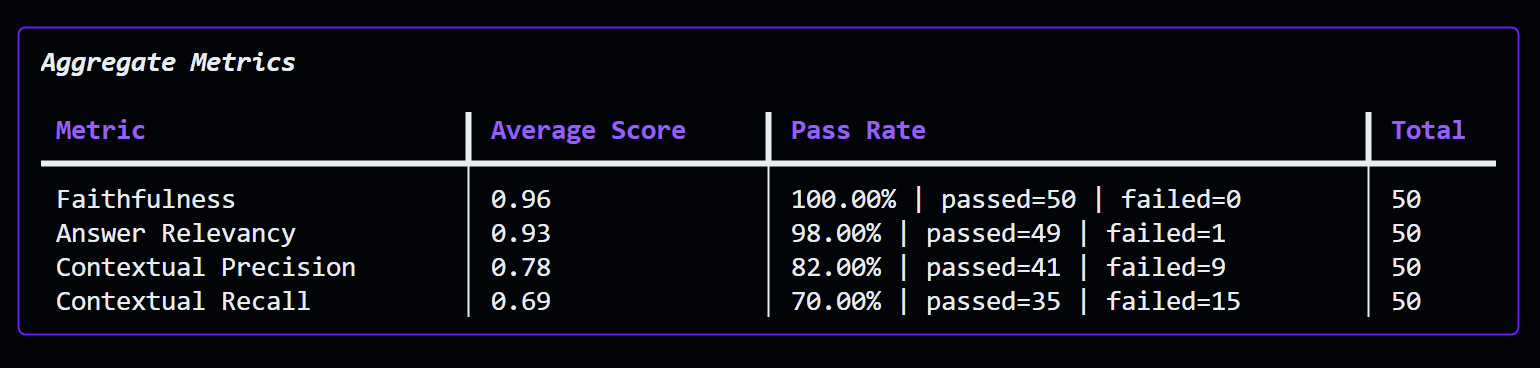
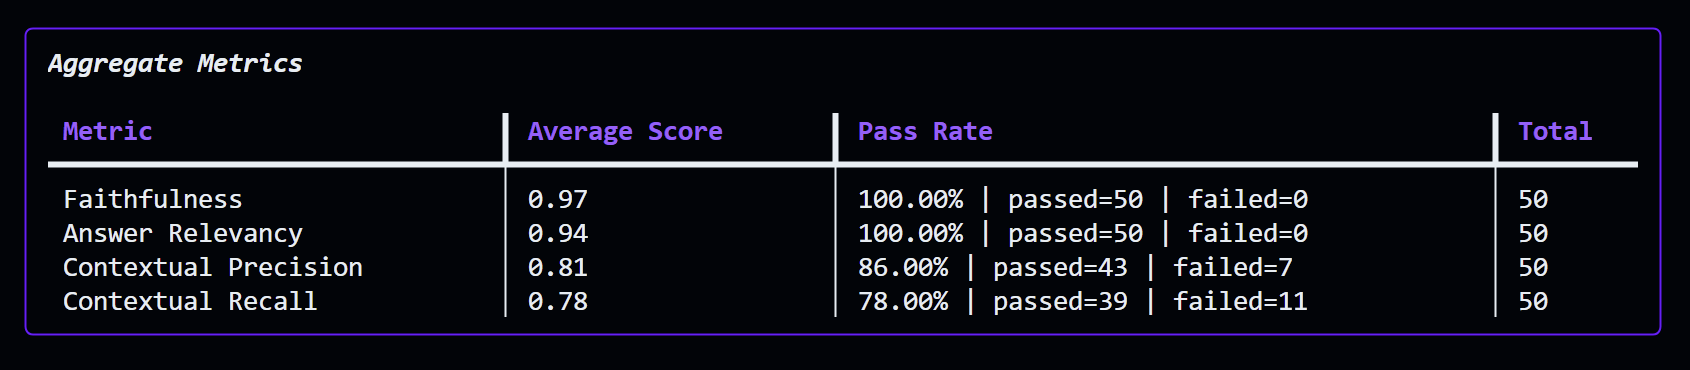
Re-eval Dense

diff --git a/src/retriever.py b/src/retriever.py
@@ -1,34 +1,37 @@
 """
-Qdrant client, Hybrid Vector Store (Dense + BM25 Sparse) & RBAC filter helpers.
-Stage 2: Hybrid Retrieval — Dense (BAAI/bge-small-en-v1.5) + Sparse (Qdrant/bm25).
+Qdrant client, vector store, and RBAC filter helpers.
+Stage 1: Dense Vector Retrieval (BAAI/bge-small-en-v1.5).
 """
 from __future__ import annotations
 import atexit
 import warnings
 
-from langchain_community.embeddings import FastEmbedEmbeddings
-from langchain_qdrant import FastEmbedSparse, QdrantVectorStore, RetrievalMode
+from fastembed import TextEmbedding
+from langchain_core.embeddings import Embeddings
+from langchain_qdrant import QdrantVectorStore
 from qdrant_client import QdrantClient, models
-from qdrant_client.http.models import Distance, VectorParams, SparseVectorParams
+from qdrant_client.http.models import Distance, VectorParams
 
 from src.config import QDRANT_PATH, COLLECTION_NAME
 
-# ── Model Config ──────────────────────────────────────────────────────────────
-EMBED_MODEL        = "BAAI/bge-small-en-v1.5"
-EMBED_DIM          = 384
-SPARSE_MODEL       = "Qdrant/bm25"
-
-# Named vector slots inside Qdrant collection
-DENSE_VECTOR_NAME  = "dense"
-SPARSE_VECTOR_NAME = "sparse"
+EMBED_MODEL = "BAAI/bge-small-en-v1.5"
+EMBED_DIM   = 384
 
 
-# ── Embedding Singletons ─────────────────────────────────────────────────────
-dense_embeddings  = FastEmbedEmbeddings(model_name=EMBED_MODEL)
-sparse_embeddings = FastEmbedSparse(model_name=SPARSE_MODEL)
+class _FastEmbedWrapper(Embeddings):
+    """Thin LangChain Embeddings wrapper around fastembed.TextEmbedding."""
+    def __init__(self, model_name: str) -> None:
+        self._model = TextEmbedding(model_name=model_name)
+
+    def embed_documents(self, texts: list[str]) -> list[list[float]]:
+        return [v.tolist() for v in self._model.embed(texts)]
+
+    def embed_query(self, text: str) -> list[float]:
+        return list(self._model.embed([text]))[0].tolist()
 
 
-# ── Qdrant Client Singleton ───────────────────────────────────────────────────
+embeddings = _FastEmbedWrapper(EMBED_MODEL)
+
 _client: QdrantClient | None = None
 
 
@@ -39,7 +42,6 @@ def get_qdrant_client() -> QdrantClient:
     return _client
 
 
-# ── Collection Schema ─────────────────────────────────────────────────────────
 def _create_payload_index(client: QdrantClient) -> None:
     with warnings.catch_warnings():
         warnings.simplefilter("ignore", UserWarning)
@@ -54,27 +56,18 @@ def _create_payload_index(client: QdrantClient) -> None:
 
 
 def reset_collection_schema(client: QdrantClient) -> None:
-    """Drop and recreate collection with Dense (cosine) + BM25 Sparse (IDF) vector slots."""
+    """Drop and recreate collection schema with Dense vectors only."""
     if client.collection_exists(COLLECTION_NAME):
         client.delete_collection(COLLECTION_NAME)
 
     client.create_collection(
         collection_name=COLLECTION_NAME,
-        vectors_config={
-            DENSE_VECTOR_NAME: VectorParams(size=EMBED_DIM, distance=Distance.COSINE),
-        },
-        sparse_vectors_config={
-            SPARSE_VECTOR_NAME: SparseVectorParams(
-                modifier=models.Modifier.IDF,  # proper BM25 IDF term-frequency weighting
-            ),
-        },
+        vectors_config=VectorParams(size=EMBED_DIM, distance=Distance.COSINE),
     )
     _create_payload_index(client)
 
 
-# ── Vector Store ──────────────────────────────────────────────────────────────
 def get_vector_store() -> QdrantVectorStore:
-    """Return a QdrantVectorStore in HYBRID mode (Dense + BM25). Collection must exist."""
     client = get_qdrant_client()
     if not client.collection_exists(COLLECTION_NAME):
         reset_collection_schema(client)
@@ -82,15 +75,10 @@ def get_vector_store() -> QdrantVectorStore:
     return QdrantVectorStore(
         client=client,
         collection_name=COLLECTION_NAME,
-        embedding=dense_embeddings,
-        sparse_embedding=sparse_embeddings,
-        retrieval_mode=RetrievalMode.HYBRID,
-        vector_name=DENSE_VECTOR_NAME,
-        sparse_vector_name=SPARSE_VECTOR_NAME,
+        embedding=embeddings,
     )
 
 
-# ── RBAC Filters ──────────────────────────────────────────────────────────────
 def rbac_filter(role: str) -> models.Filter:
     return models.Filter(
         must=[
@@ -113,7 +101,6 @@ def rbac_filter_multi_role(roles: list[str]) -> models.Filter:
     )
 
 
-# ── Indexing & Retrieval ──────────────────────────────────────────────────────
 def add_documents_to_qdrant(docs) -> list[str]:
     return get_vector_store().add_documents(documents=docs)
 
@@ -125,7 +112,6 @@ def build_retriever(k: int = 3, user_role: str | None = None):
     return get_vector_store().as_retriever(search_kwargs=search_kwargs)
 
 
-# ── Cleanup ───────────────────────────────────────────────────────────────────
 def close_qdrant_client() -> None:
     global _client
     if _client is not None:

diff --git a/src/ingester.py b/src/ingester.py
@@ -1,6 +1,6 @@
 """
-Ingests PDFs into Qdrant with RBAC metadata on every chunk.
-Supports Hybrid indexing (Dense + BM25 Sparse) via src/retriever.
+Ingests a PDF (bytes) into Qdrant with RBAC metadata attached to every chunk.
+For admin-controlled ingestion with a custom allow-list, use admin_ops.index_pdf_for_roles().
 """
 import io
 from pathlib import Path
@@ -9,15 +9,15 @@ from langchain_core.documents import Document
 from langchain_text_splitters import RecursiveCharacterTextSplitter
 from pypdf import PdfReader
 
-from src.retriever import get_qdrant_client, reset_collection_schema, add_documents_to_qdrant
+from src.retriever import add_documents_to_qdrant, get_qdrant_client, reset_collection_schema
 
 CHUNK_SIZE    = 1000
 CHUNK_OVERLAP = 150
 
 DATA_DIR     = Path(__file__).resolve().parent.parent / "data"
+# Default allow-list for the standard upload flow
 PUBLIC_ROLES = ["employee", "hr_manager", "payroll_officer", "ops_lead", "executive"]
 
-# RBAC role mapping for batch re-ingestion
 ROLE_MAPPING = {
     "employee_handbook_2026.pdf":               ["employee", "hr_manager", "payroll_officer", "ops_lead", "executive"],
     "performance_and_grievance_policy.pdf":     ["hr_manager", "ops_lead", "executive"],
@@ -33,7 +33,6 @@ ROLE_MAPPING = {
 
 
 def process_pdf_bytes(file_bytes: bytes, filename: str, allowed_roles: list[str] | None = None) -> int:
-    """Ingest a single PDF (bytes) into Qdrant. Used by Streamlit UI / FastAPI upload."""
     if allowed_roles is None:
         allowed_roles = PUBLIC_ROLES
 
@@ -56,7 +55,7 @@ def process_pdf_bytes(file_bytes: bytes, filename: str, allowed_roles: list[str]
 
 
 def ingest_all_pdfs() -> None:
-    """Re-index all enterprise PDFs with Dense + BM25 Sparse vectors and RBAC metadata."""
+    """Re-index all enterprise PDFs with Dense vectors and RBAC metadata."""
     client = get_qdrant_client()
     reset_collection_schema(client)
 
@@ -84,9 +83,9 @@ def ingest_all_pdfs() -> None:
         all_chunks.extend(chunks)
         print(f"  • {filename:<50} → {len(chunks):>3} chunks | roles: {', '.join(roles)}")
 
-    print(f"\nIndexing {len(all_chunks)} chunks (Dense + BM25 Sparse)...")
+    print(f"\nIndexing {len(all_chunks)} chunks (Dense Only)...")
     add_documents_to_qdrant(all_chunks)
-    print("Done! Hybrid index is ready.\n")
+    print("Done! Dense index is ready.\n")
 
 
 if __name__ == "__main__":

diff --git a/README.md b/README.md
@@ -9,15 +9,17 @@ An enterprise-grade Retrieval-Augmented Generation (RAG) system featuring **Mult
 ### 📈 Stage 1: Dense Semantic Search (Baseline)
 *Dense vector embeddings (`BAAI/bge-small-en-v1.5`) with cosine similarity & RBAC filtering.*
 
+> **Re-evaluated** with corrected ground-truth QA dataset (10 answers fixed to match PDF source).
+
 | Metric | Average Score | Pass Rate | Evaluation Result |
 |---|:---:|:---:|---|
-| **Faithfulness** | **0.96** | **100.00%** (50/50 passed) | 🟢 Flawless factual grounding in retrieved context |
-| **Answer Relevancy** | **0.93** | **98.00%** (49/50 passed) | 🟢 Highly pertinent answers aligned with query |
-| **Contextual Precision** | **0.78** | **82.00%** (41/50 passed) | 🟡 Signal-to-noise ratio baseline |
-| **Contextual Recall** | **0.69** | **70.00%** (35/50 passed) | 🟡 Missed exact keyword and policy numbers |
+| **Faithfulness** | **0.97** | **100.00%** (50/50 passed) | 🟢 Flawless factual grounding in retrieved context |
+| **Answer Relevancy** | **0.94** | **100.00%** (50/50 passed) | 🟢 Highly pertinent answers aligned with query |
+| **Contextual Precision** | **0.81** | **86.00%** (43/50 passed) | 🟡 Signal-to-noise ratio baseline |
+| **Contextual Recall** | **0.78** | **78.00%** (39/50 passed) | 🟡 Missed exact keyword and policy numbers |
 | **RBAC Security Isolation** | **1.00** | **100.00%** (28/28 passed) | 🛡 Zero cross-role data leaks |
 
-**Stage 1 Summary**: **64.00% PASSED** (32/50) | **36.00% FAILED** (18/50)
+**Stage 1 Summary**: **78.00% PASSED** (39/50) | **22.00% FAILED** (11/50)
 
 ---
 
@@ -38,14 +40,16 @@ An enterprise-grade Retrieval-Augmented Generation (RAG) system featuring **Mult
 
 ### 📊 Benchmark Progression: Stage 1 vs Stage 2
 
-| Metric | Stage 1 (Dense Baseline) | Stage 2 (Hybrid BM25 + Dense) | Delta / Improvement |
+> ⚠ Stage 2 numbers below are from the **old QA dataset** and will be updated after the corrected-QA re-run.
+
+| Metric | Stage 1 (Dense — corrected QA) | Stage 2 (Hybrid BM25 — old QA) | Delta |
 |---|:---:|:---:|:---:|
-| **Contextual Precision** | 0.78 (82% pass) | **0.83 (88% pass)** | 🟢 **+5.0% (+3 passed)** |
-| **Contextual Recall** | 0.69 (70% pass) | **0.73 (74% pass)** | 🟢 **+4.0% (+2 passed)** |
-| **Faithfulness** | 0.96 (100% pass) | **0.92 (98% pass)** | ⚪ -0.04 |
-| **Answer Relevancy** | 0.93 (98% pass) | **0.92 (96% pass)** | ⚪ -0.01 |
-| **RBAC Isolation** | 1.00 (100% pass) | **1.00 (100% pass)** | 🛡 **100% Maintained (28/28)** |
-| **Overall Pass Rate** | **64.00%** (32/50) | **72.00%** (36/50) | 🚀 **+8.0% Overall Gain** |
+| **Contextual Precision** | 0.81 (86% pass) | 0.83 (88% pass) | 🟢 +2.0% |
+| **Contextual Recall** | 0.78 (78% pass) | 0.73 (74% pass) | ⚪ -4.0% |
+| **Faithfulness** | 0.97 (100% pass) | 0.92 (98% pass) | ⚪ -2.0% |
+| **Answer Relevancy** | 0.94 (100% pass) | 0.92 (96% pass) | ⚪ -4.0% |
+| **RBAC Isolation** | 1.00 (100% pass) | 1.00 (100% pass) | 🛡 **100% Maintained (28/28)** |
+| **Overall Pass Rate** | **78.00%** (39/50) | **72.00%** (36/50) | ⏳ *Awaiting Stage 2 corrected re-run* |
 
 ---
 
